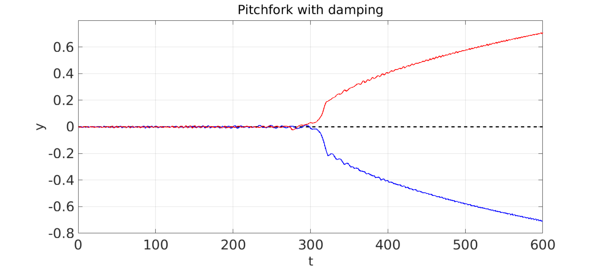
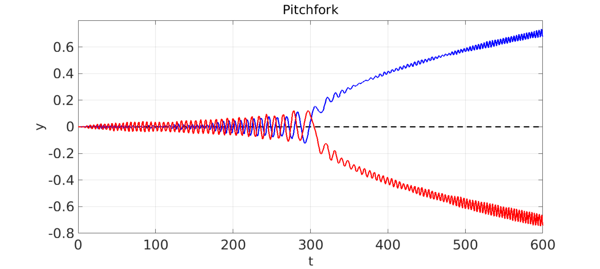
Publish example ode-random/Pitchfork.
This message was auto-generated by publish-example.sh.

diff --git a/examples/ode-random/Pitchfork.html b/examples/ode-random/Pitchfork.html
@@ -61,40 +61,40 @@
     <div class="container">
 <div class="row main">
 <div id='content' class="col-sm-12 example" role="main">
-<p>The second-order ODE $$ y'' = 2\kern .3pt cy - 4y^3 - 0.2\kern .3pt y' $$ has steady states $y=0$, $y = \sqrt{c/2}$ and $y = \sqrt{-c/2}$. For $c&lt;0$, only the first of these is real, and it is a stable steady state.  As $c$ passes through zero to values $c&gt;0$, the other two steady states emerge, and now $y=0$ is unsteady and the other two are steady.  This is a pitchfork bifurcation.</p>
-<p>One way to see the bifurcation in a single ODE computation is to consider a time-dependent problem with a coefficient $c(t)$ that slowly increases through zero, like this: $$ y'' = 2\kern .3pt c(t)y - 4y^3 - 0.2\kern .3pt y' , ~~~ c(t) = -1+t/300, ~~ t \in [0, 600].  $$ If the initial condition is $y(0) = 0$, then the solution is $y(t)=0$ for all $t$ --- the solution never notices the instability.</p>
-<p>However, suppose we add noise in the form of a random function of small amplitude, like this: $$ y'' = 2\kern .3pt c(t)y - 4y^3 - 0.2\kern .3pt y' + 0.003f(t), ~~~ c(t) = -1+t/300, ~~ t \in [0, 600].  $$ Now the solution will, at random, deviate to one or the other branch of the pitchfork.  Here we show three solutions: two with noise, and one without (the dashed middle line). (We tried <code>rng(0) ... rng(6)</code> before finally finding that <code>rng(7)</code> gave a picture with both forks!)</p>
+<p>The second-order ODE $$ y'' = 2\kern .3pt cy - 4y^3 $$ has fixed points $y=0$, $y = \sqrt{c/2}$ and $y = -\sqrt{c/2}$. For $c&lt;0$, only the first of these is real, and it is a stable fixed point.  As $c$ passes through zero to values $c&gt;0$, the other two fixed points emerge, and now $y=0$ is unstable and the other two are stable.  This is a pitchfork bifurcation.</p>
+<p>One way to see the bifurcation in a single ODE computation is to consider a time-dependent problem with a coefficient $c(t)$ that slowly increases through zero, like this: $$ y'' = 2\kern .3pt c(t)y - 4y^3, ~~~ c(t) = -1+t/300, ~~ t \in [0, 600].  $$ If the initial condition is $y(0) = 0$, then the solution is $y(t)=0$ for all $t$ --- the solution never notices the instability.</p>
+<p>However, suppose we add noise in the form of a random function of small amplitude, like this: $$ y'' = 2\kern .3pt c(t)y - 4y^3 + 0.003f(t), ~~~ c(t) = -1+t/300, ~~ t \in [0, 600].  $$ Now the solution will, at random, deviate to one or the other branch of the pitchfork.  Here we show three solutions: two with noise, and one without (the dashed middle line).</p>
 <pre class="mcode-input">tic
-rng(7), lambda = 2;
+rng(0), lambda = 2;
 N = chebop(0,600); N.lbc = [0;0];
-N.op = @(t,y) diff(y,2) - 2*(-1+t/300)*y + 4*y^3 + .2*diff(y);
-FS = 'fontsize'; LW = 'linewidth';
-y1 = N\0; plot(y1,'--k',LW,2), hold on
+N.op = @(t,y) diff(y,2) - 2*(-1+t/300)*y + 4*y^3;
+FS = 'fontsize'; LW = 'linewidth'; lw = 2.5;
+y1 = N\0; plot(y1,'--k',LW,lw), hold on
 f1 = 0.003*randnfun([0 600],lambda,'norm');
-y2 = N\f1; plot(y2,'b',LW,2),
+y2 = N\f1; plot(y2,'b',LW,lw),
 f2 = 0.003*randnfun([0 600],lambda,'norm');
-y3 = N\f2; plot(y3,'r',LW,2), hold off
+y3 = N\f2; plot(y3,'r',LW,lw), hold off
+xlabel('t',FS,32), ylabel('y',FS,32)
+title('Pitchfork',FS,32)
+axis([0 600 -.8 .8]), grid on</pre>
+
+<p><img src="img/Pitchfork_01.png" class="figure" alt=""></p>
+<p>Note that the solutions display big oscillations.  Adding a damping term $0.2y'$ to the equation changes this a good deal.</p>
+<pre class="mcode-input">N.op = @(t,y) diff(y,2) - 2*(-1+t/300)*y + 4*y^3 + 0.2*diff(y);
+plot(y1,'--k',LW,lw), hold on
+y2 = N\(-f1); plot(y2,'b',LW,lw),
+y3 = N\f2; plot(y3,'r',LW,lw), hold off
 xlabel('t',FS,32), ylabel('y',FS,32)
 title('Pitchfork with damping',FS,32)
 axis([0 600 -.8 .8]), grid on</pre>
 
-<p><img src="img/Pitchfork_01.png" class="figure" alt=""></p>
-<p>Note that the ODE has a damping term involving $y'$. If we remove the damping, we get a similar picture but with large oscillations:</p>
-<pre class="mcode-input">N.op = @(t,y) diff(y,2) - 2*(-1+t/300)*y + 4*y^3;
-plot(y1,'--k',LW,2), hold on
-y2 = N\(-f1); plot(y2,'b',LW,2),
-y3 = N\f2; plot(y3,'r',LW,2), hold off
-xlabel('t',FS,32), ylabel('y',FS,32)
-title('Pitchfork without damping',FS,32)
-axis([0 600 -.8 .8]), grid on</pre>
-
 <p><img src="img/Pitchfork_02.png" class="figure" alt=""></p>
-<p>When we first tried this, both branches went positive. So we flipped the sign on one of them.</p>
-<p>This example has some close links with the example "Phase-locking in a Duffing-type equation", though that involves a first-order ODE.</p>
+<p>When we first tried this, both branches went negative. So we flipped the sign on one of them.</p>
+<p>This example has connections with the example "Phase-locking in a Duffing-type equation", though that involves a first-order ODE.</p>
 <pre class="mcode-input">total_time_in_seconds = toc</pre>
 
 <pre class="mcode-output">total_time_in_seconds =
-  17.289608999999999
+  17.422788000000001
 </pre></div>
         </div>
     </div>

diff --git a/examples/ode-random/img/Pitchfork.html b/examples/ode-random/img/Pitchfork.html
@@ -5,40 +5,40 @@ authordate: "Nick Trefethen, May 2017"
 meta: "(Chebfun example ode-random/Bifurcation.m)"
 ---
 
-The second-order ODE $$ y'' = 2\kern .3pt cy - 4y^3 - 0.2\kern .3pt y' $$ has steady states $y=0$, $y = \sqrt{c/2}$ and $y = \sqrt{-c/2}$. For $c&lt;0$, only the first of these is real, and it is a stable steady state.  As $c$ passes through zero to values $c&gt;0$, the other two steady states emerge, and now $y=0$ is unsteady and the other two are steady.  This is a pitchfork bifurcation.
+The second-order ODE $$ y'' = 2\kern .3pt cy - 4y^3 $$ has fixed points $y=0$, $y = \sqrt{c/2}$ and $y = -\sqrt{c/2}$. For $c&lt;0$, only the first of these is real, and it is a stable fixed point.  As $c$ passes through zero to values $c&gt;0$, the other two fixed points emerge, and now $y=0$ is unstable and the other two are stable.  This is a pitchfork bifurcation.
 
-One way to see the bifurcation in a single ODE computation is to consider a time-dependent problem with a coefficient $c(t)$ that slowly increases through zero, like this: $$ y'' = 2\kern .3pt c(t)y - 4y^3 - 0.2\kern .3pt y' , ~~~ c(t) = -1+t/300, ~~ t \in [0, 600].  $$ If the initial condition is $y(0) = 0$, then the solution is $y(t)=0$ for all $t$ --- the solution never notices the instability.
+One way to see the bifurcation in a single ODE computation is to consider a time-dependent problem with a coefficient $c(t)$ that slowly increases through zero, like this: $$ y'' = 2\kern .3pt c(t)y - 4y^3, ~~~ c(t) = -1+t/300, ~~ t \in [0, 600].  $$ If the initial condition is $y(0) = 0$, then the solution is $y(t)=0$ for all $t$ --- the solution never notices the instability.
 
-However, suppose we add noise in the form of a random function of small amplitude, like this: $$ y'' = 2\kern .3pt c(t)y - 4y^3 - 0.2\kern .3pt y' + 0.003f(t), ~~~ c(t) = -1+t/300, ~~ t \in [0, 600].  $$ Now the solution will, at random, deviate to one or the other branch of the pitchfork.  Here we show three solutions: two with noise, and one without (the dashed middle line). (We tried `rng(0) ... rng(6)` before finally finding that `rng(7)` gave a picture with both forks!)
+However, suppose we add noise in the form of a random function of small amplitude, like this: $$ y'' = 2\kern .3pt c(t)y - 4y^3 + 0.003f(t), ~~~ c(t) = -1+t/300, ~~ t \in [0, 600].  $$ Now the solution will, at random, deviate to one or the other branch of the pitchfork.  Here we show three solutions: two with noise, and one without (the dashed middle line).
 
 <pre class="mcode-input">tic
-rng(7), lambda = 2;
+rng(0), lambda = 2;
 N = chebop(0,600); N.lbc = [0;0];
-N.op = @(t,y) diff(y,2) - 2*(-1+t/300)*y + 4*y^3 + .2*diff(y);
-FS = 'fontsize'; LW = 'linewidth';
-y1 = N\0; plot(y1,'--k',LW,2), hold on
+N.op = @(t,y) diff(y,2) - 2*(-1+t/300)*y + 4*y^3;
+FS = 'fontsize'; LW = 'linewidth'; lw = 2.5;
+y1 = N\0; plot(y1,'--k',LW,lw), hold on
 f1 = 0.003*randnfun([0 600],lambda,'norm');
-y2 = N\f1; plot(y2,'b',LW,2),
+y2 = N\f1; plot(y2,'b',LW,lw),
 f2 = 0.003*randnfun([0 600],lambda,'norm');
-y3 = N\f2; plot(y3,'r',LW,2), hold off
+y3 = N\f2; plot(y3,'r',LW,lw), hold off
 xlabel('t',FS,32), ylabel('y',FS,32)
-title('Pitchfork with damping',FS,32)
+title('Pitchfork',FS,32)
 axis([0 600 -.8 .8]), grid on</pre><img src="img/Pitchfork_01.png" class="figure" alt="">
 
-Note that the ODE has a damping term involving $y'$. If we remove the damping, we get a similar picture but with large oscillations:
+Note that the solutions display big oscillations.  Adding a damping term $0.2y'$ to the equation changes this a good deal.
 
-<pre class="mcode-input">N.op = @(t,y) diff(y,2) - 2*(-1+t/300)*y + 4*y^3;
-plot(y1,'--k',LW,2), hold on
-y2 = N\(-f1); plot(y2,'b',LW,2),
-y3 = N\f2; plot(y3,'r',LW,2), hold off
+<pre class="mcode-input">N.op = @(t,y) diff(y,2) - 2*(-1+t/300)*y + 4*y^3 + 0.2*diff(y);
+plot(y1,'--k',LW,lw), hold on
+y2 = N\(-f1); plot(y2,'b',LW,lw),
+y3 = N\f2; plot(y3,'r',LW,lw), hold off
 xlabel('t',FS,32), ylabel('y',FS,32)
-title('Pitchfork without damping',FS,32)
+title('Pitchfork with damping',FS,32)
 axis([0 600 -.8 .8]), grid on</pre><img src="img/Pitchfork_02.png" class="figure" alt="">
 
-When we first tried this, both branches went positive. So we flipped the sign on one of them.
+When we first tried this, both branches went negative. So we flipped the sign on one of them.
 
-This example has some close links with the example "Phase-locking in a Duffing-type equation", though that involves a first-order ODE.
+This example has connections with the example "Phase-locking in a Duffing-type equation", though that involves a first-order ODE.
 
 <pre class="mcode-input">total_time_in_seconds = toc</pre><pre class="mcode-output">total_time_in_seconds =
-  17.289608999999999
+  17.422788000000001
 </pre>

diff --git a/index.html b/index.html
@@ -269,5 +269,5 @@ plot(minx(1),minx(2),'.w')
     <script type="text/javascript" src="/js/config.js"></script>
     <script type="text/javascript" src="/js/jquery.flexslider-min.js"></script>
   </body>
-<!-- Compiled on Wednesday, 31 May 2017 at 14:32. -->
+<!-- Compiled on Wednesday, 31 May 2017 at 14:56. -->
 </html>

diff --git a/examples/ode-random/Pitchfork.m b/examples/ode-random/Pitchfork.m
@@ -6,18 +6,18 @@
 
 %%
 % The second-order ODE
-% $$ y'' = 2\kern .3pt cy - 4y^3 - 0.2\kern .3pt y' $$
-% has steady states $y=0$, $y = \sqrt{c/2}$ and $y = \sqrt{-c/2}$.
+% $$ y'' = 2\kern .3pt cy - 4y^3 $$
+% has fixed points $y=0$, $y = \sqrt{c/2}$ and $y = -\sqrt{c/2}$.
 % For $c<0$, only the first of these is real, and it is a stable
-% steady state.  As $c$ passes through zero to values $c>0$, 
-% the other two steady states emerge, and now $y=0$ is unsteady
-% and the other two are steady.  This is a pitchfork bifurcation.
+% fixed point.  As $c$ passes through zero to values $c>0$, 
+% the other two fixed points emerge, and now $y=0$ is unstable
+% and the other two are stable.  This is a pitchfork bifurcation.
 
 %%
 % One way to see the bifurcation in a single ODE computation
 % is to consider a time-dependent problem with a coefficient $c(t)$
 % that slowly increases through zero, like this:
-% $$ y'' = 2\kern .3pt c(t)y - 4y^3 - 0.2\kern .3pt y' ,
+% $$ y'' = 2\kern .3pt c(t)y - 4y^3,
 % ~~~ c(t) = -1+t/300, ~~ t \in [0, 600].  $$
 % If the initial condition is $y(0) = 0$, then the solution is
 % $y(t)=0$ for all $t$ --- the solution never notices the instability.
@@ -25,45 +25,42 @@
 %%
 % However, suppose we add noise in the form of a random function
 % of small amplitude, like this:
-% $$ y'' = 2\kern .3pt c(t)y - 4y^3 - 0.2\kern .3pt y' + 0.003f(t),
+% $$ y'' = 2\kern .3pt c(t)y - 4y^3 + 0.003f(t),
 % ~~~ c(t) = -1+t/300, ~~ t \in [0, 600].  $$
 % Now the solution will, at random, deviate to one or the
 % other branch of the pitchfork.  Here we show three solutions:
 % two with noise, and one without (the dashed middle line).
-% (We tried |rng(0) ... rng(6)| before finally finding that
-% |rng(7)| gave a picture with both forks!)
 tic
-rng(7), lambda = 2;
+rng(0), lambda = 2;
 N = chebop(0,600); N.lbc = [0;0];
-N.op = @(t,y) diff(y,2) - 2*(-1+t/300)*y + 4*y^3 + .2*diff(y);
-FS = 'fontsize'; LW = 'linewidth';
-y1 = N\0; plot(y1,'--k',LW,2), hold on
+N.op = @(t,y) diff(y,2) - 2*(-1+t/300)*y + 4*y^3;
+FS = 'fontsize'; LW = 'linewidth'; lw = 2.5;
+y1 = N\0; plot(y1,'--k',LW,lw), hold on
 f1 = 0.003*randnfun([0 600],lambda,'norm');
-y2 = N\f1; plot(y2,'b',LW,2),
+y2 = N\f1; plot(y2,'b',LW,lw),
 f2 = 0.003*randnfun([0 600],lambda,'norm');
-y3 = N\f2; plot(y3,'r',LW,2), hold off
+y3 = N\f2; plot(y3,'r',LW,lw), hold off
+xlabel('t',FS,32), ylabel('y',FS,32)
+title('Pitchfork',FS,32)
+axis([0 600 -.8 .8]), grid on
+
+%%
+% Note that the solutions display big oscillations.  Adding a 
+% damping term $0.2y'$ to the equation changes this a good deal.
+N.op = @(t,y) diff(y,2) - 2*(-1+t/300)*y + 4*y^3 + 0.2*diff(y);
+plot(y1,'--k',LW,lw), hold on
+y2 = N\(-f1); plot(y2,'b',LW,lw),
+y3 = N\f2; plot(y3,'r',LW,lw), hold off
 xlabel('t',FS,32), ylabel('y',FS,32)
 title('Pitchfork with damping',FS,32)
 axis([0 600 -.8 .8]), grid on
 
 %%
-% Note that the ODE has a damping term involving $y'$.
-% If we remove the damping, we get a similar picture but with
-% large oscillations:
-N.op = @(t,y) diff(y,2) - 2*(-1+t/300)*y + 4*y^3;
-plot(y1,'--k',LW,2), hold on
-y2 = N\(-f1); plot(y2,'b',LW,2),
-y3 = N\f2; plot(y3,'r',LW,2), hold off
-xlabel('t',FS,32), ylabel('y',FS,32)
-title('Pitchfork without damping',FS,32)
-axis([0 600 -.8 .8]), grid on
-
-%%
-% When we first tried this, both branches went positive.
+% When we first tried this, both branches went negative.
 % So we flipped the sign on one of them.
 
 %%
-% This example has some close links with the
+% This example has connections with the
 % example "Phase-locking in a Duffing-type equation", though
 % that involves a first-order ODE.
 
